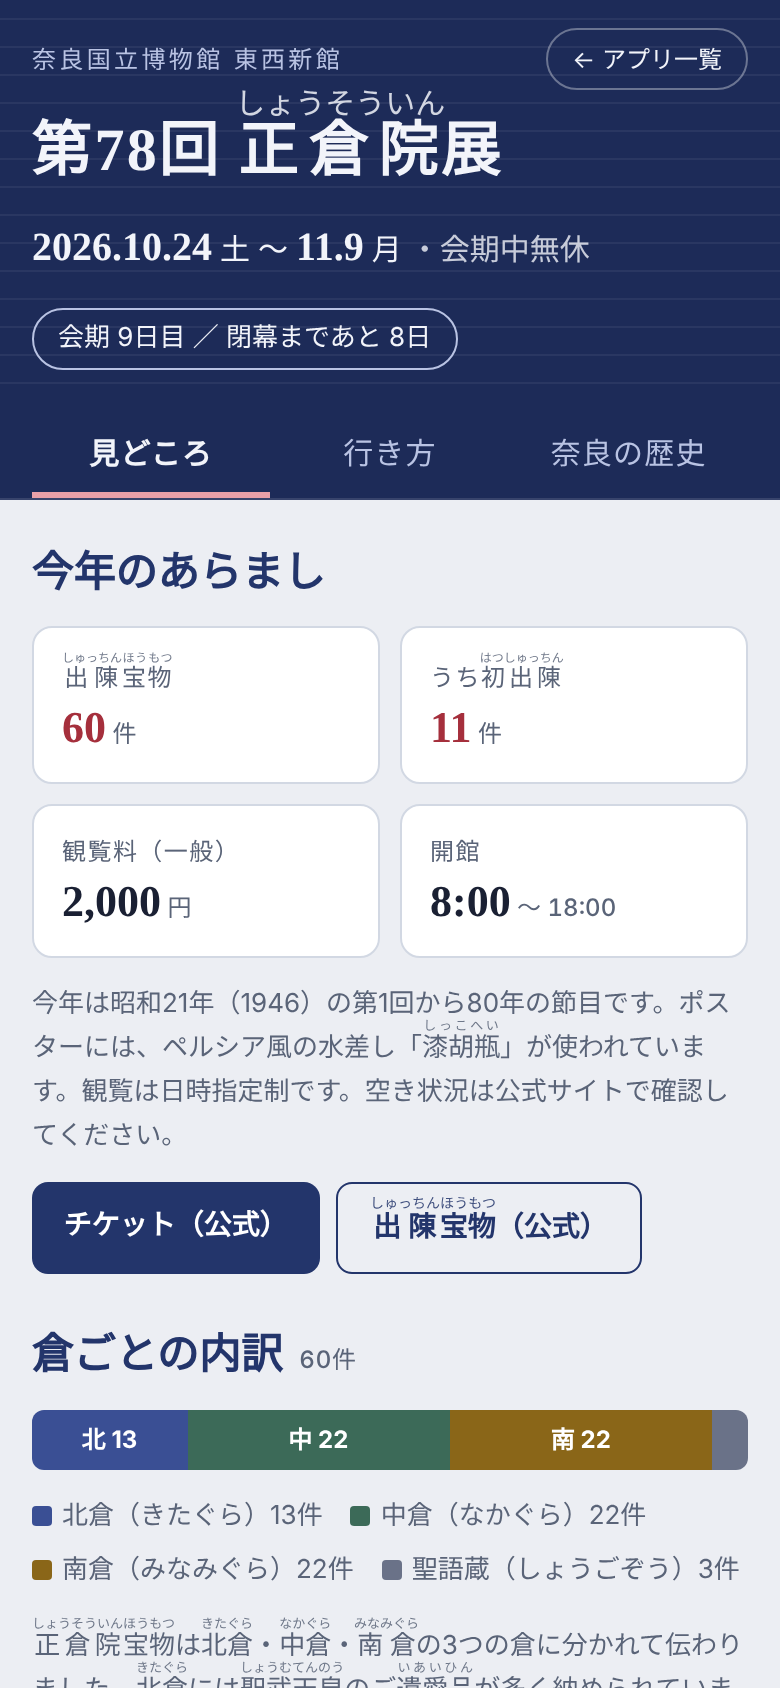
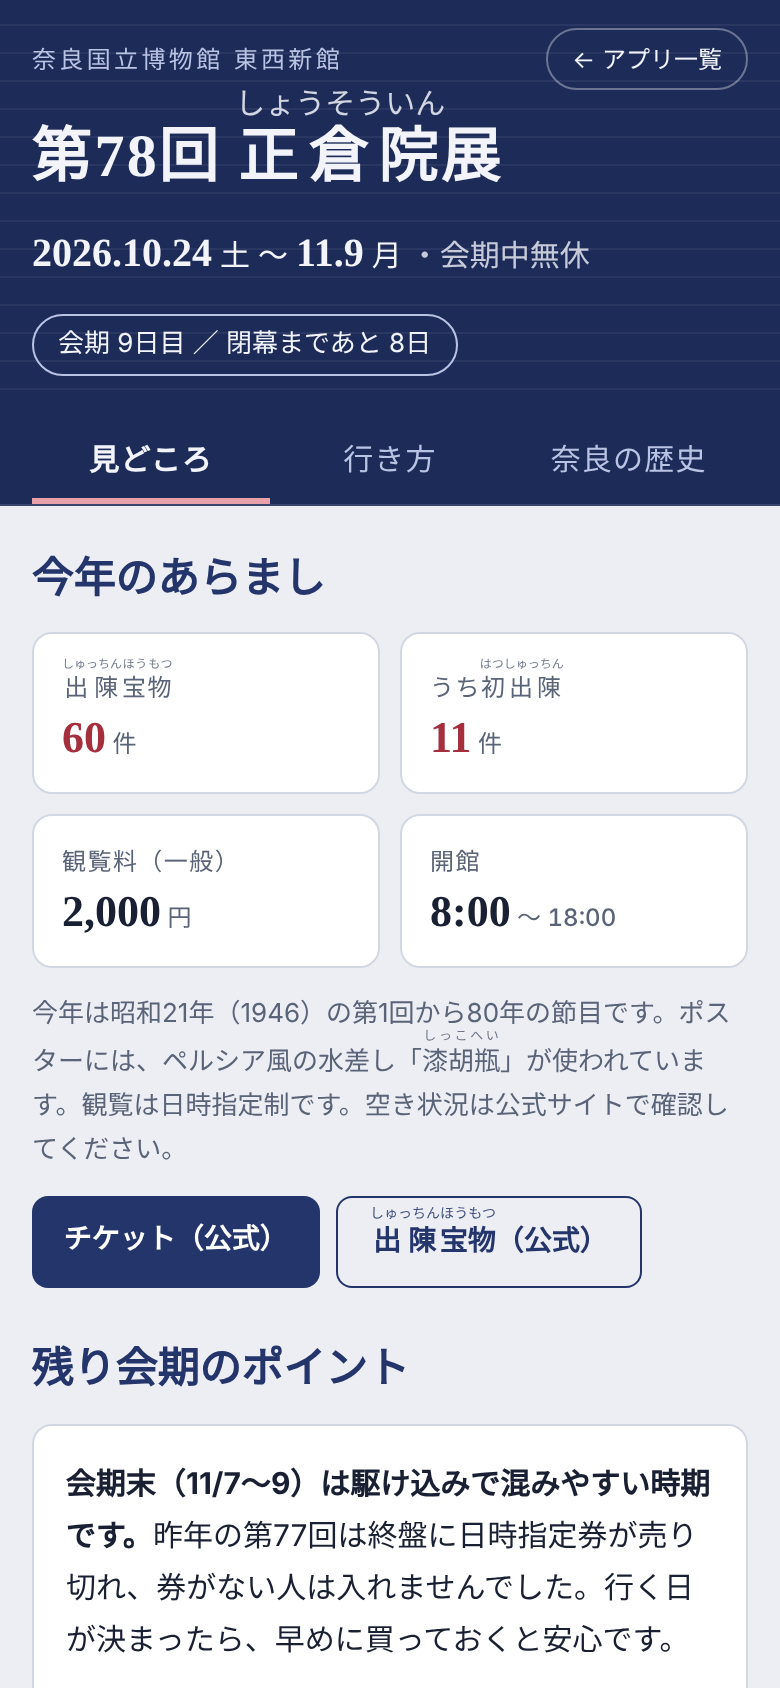
正倉院展ガイド：11月1日時点の情報に更新
Claude-Session: https://claude.ai/code/session_016FBJxgHSY4eWMzFmBuHfbc

diff --git a/shosoin-ten/index.html b/shosoin-ten/index.html
@@ -267,6 +267,15 @@ footer .by a { color: var(--muted); }
   </div>
 
   <div class="sec">
+    <h2>残り会期のポイント</h2>
+    <div class="card">
+      <p><b>会期末（11/7〜9）は駆け込みで混みやすい時期です。</b>昨年の第77回は終盤に日時指定券が売り切れ、券がない人は入れませんでした。行く日が決まったら、早めに買っておくと安心です。</p>
+      <p style="margin-top:8px">オンラインの日時指定券は、当日も各時間枠が始まる時刻まで買えます（売り切れ次第終了）。</p>
+      <p style="margin-top:8px">各時間枠の始まり直後は入口が混むため、少し遅れて入るのがおすすめと、公式チケットサイトが案内しています。</p>
+    </div>
+  </div>
+
+  <div class="sec">
     <h2>倉ごとの内訳<small>60件</small></h2>
     <div class="split" role="img" aria-label="北倉13件、中倉22件、南倉22件、聖語蔵3件">
       <span class="a" style="flex:13">北 13</span><span class="b" style="flex:22">中 22</span><span class="c" style="flex:22">南 22</span><span class="d" style="flex:3"></span>
@@ -411,6 +420,7 @@ footer .by a { color: var(--muted); }
         </tbody>
       </table>
     </div>
+    <p class="note">本館の「なら仏像館」は改修工事のため休館中です。青銅器館は無料で入れます。</p>
   </div>
 
   <div class="sec">
@@ -428,13 +438,13 @@ footer .by a { color: var(--muted); }
     <div class="card">
       <p><b>レイト割の対象は、入館枠が月〜木は16時以降、金・土・日・祝は17時以降</b>の券です。</p>
       <p style="margin-top:8px">観覧は日時指定券が基本です。決めるのは入館する時刻で、入ったあとの鑑賞時間に制限はありません。70歳以上も日時指定券が必要です。</p>
-      <p style="margin-top:8px">当日券は、空きがある枠だけ特設窓口で買えます。1枚につき手数料200円がかかります。日時指定券は変更、取り消し、払い戻しができません。</p>
+      <p style="margin-top:8px">当日券は、空きがある枠だけ特設窓口で買えます。1枚につき手数料200円がかかります。1回に買えるのは8枚までです。日時指定券は変更、取り消し、払い戻しができません。</p>
     </div>
     <div class="card">
       <h3 style="font-size:16px">混雑の目安</h3>
       <p style="margin-top:6px">博物館は、午前中から15時ごろまで混み合う見込みと案内しています。比較的空いているのは、8時台の早い時間と夕方以降です。初めてなら、見終えるまで1時間半〜2時間ほどが目安とされています。</p>
     </div>
-    <p class="note">料金とレイト割の時間は、奈良国立博物館の案内（2026年10月27日確認）によります。混雑の目安は展覧会紹介記事の内容です。</p>
+    <p class="note">料金とレイト割の時間は、奈良国立博物館の案内（2026年11月1日確認）によります。混雑の目安は展覧会紹介記事の内容です。</p>
   </div>
 
   <div class="sec">
@@ -442,6 +452,10 @@ footer .by a { color: var(--muted); }
     <div class="card">
       <h3 style="font-size:17px"><ruby>正倉院<rt>しょうそういん</rt></ruby>の宴 — 井上館長とたどる絲（シルク）路の記憶</h3>
       <p class="note" style="margin-top:6px">奈良国立博物館と<ruby>登大路<rt>のぼりおおじ</rt></ruby>ホテルによる企画です。日程は10月25日（日）、10月30日（金）、11月3日（火）。申込方法は奈良国立博物館の公式サイトで案内されています。</p>
+    </div>
+    <div class="card">
+      <h3 style="font-size:17px">研究員レクチャー付き観覧券</h3>
+      <p class="note" style="margin-top:6px">研究員の解説と観覧がセットになった券（3,000円）です。残りの日程は11月5日（木）と6日（金）で、どちらも午前11時と午後2時から始まります。売り切れていることもあるので、公式サイトで確認してください。</p>
     </div>
   </div>
 
@@ -596,7 +610,7 @@ footer .by a { color: var(--muted); }
         </li>
         <li>
           <div class="yr">1895</div>
-          <div><h3>奈良国立博物館の創立</h3><p>明治28年に創立されました。レンガ造りの「なら仏像館」は重要文化財です。<ruby>正倉院<rt>しょうそういん</rt></ruby>展の会場の東西新館は、<ruby>校倉造<rt>あぜくらづくり</rt></ruby>をイメージした建物です。</p></div>
+          <div><h3>奈良国立博物館の創立</h3><p>明治28年に創立されました。レンガ造りの「なら仏像館」は重要文化財です（2026年秋は改修工事のため休館中）。<ruby>正倉院<rt>しょうそういん</rt></ruby>展の会場の東西新館は、<ruby>校倉造<rt>あぜくらづくり</rt></ruby>をイメージした建物です。</p></div>
         </li>
         <li class="sho">
           <div class="yr">1946</div>
@@ -641,7 +655,7 @@ footer .by a { color: var(--muted); }
     <a href="https://www.narahaku.go.jp/exhibition/special/special_exhibition/202610_shosoin/" target="_blank" rel="noopener">奈良国立博物館</a> ／
     <a href="https://artexhibition.jp/topics/news/20260714-AEJ2947917/" target="_blank" rel="noopener">Art Exhibition Japan</a> ／
     <a href="https://www.gltjp.com/ja/article/item/20915/" target="_blank" rel="noopener">大阪から奈良への行き方（GLT）</a><br>
-    情報は2026年10月27日に調べたものです。チケット、料金、開館時間、ダイヤは変わることがあるため、出かける前に公式の案内を確認してください。
+    情報は2026年11月1日に確認したものです。チケット、料金、開館時間、ダイヤは変わることがあるため、出かける前に公式の案内を確認してください。
   </div>
   <div class="by">作成：ロックポッポ（<a href="https://x.com/rockpoppocom">@rockpoppocom</a>）</div>
 </footer>
@@ -681,7 +695,7 @@ footer .by a { color: var(--muted); }
     var cal = document.getElementById('cal');
     var dows = ['月', '火', '水', '木', '金', '土', '日'];
     var html = dows.map(function (d) { return '<div class="dow">' + d + '</div>'; }).join('');
-    var ev = [Date.UTC(2026, 9, 25), Date.UTC(2026, 9, 30), Date.UTC(2026, 10, 3)];
+    var ev = [Date.UTC(2026, 9, 25), Date.UTC(2026, 9, 28), Date.UTC(2026, 9, 29), Date.UTC(2026, 9, 30), Date.UTC(2026, 10, 3), Date.UTC(2026, 10, 5), Date.UTC(2026, 10, 6)];
     var first = Date.UTC(2026, 9, 19);
     for (var i = 0; i < 28; i++) {
       var ms = first + i * DAY, d = new Date(ms), dow = d.getUTCDay();
